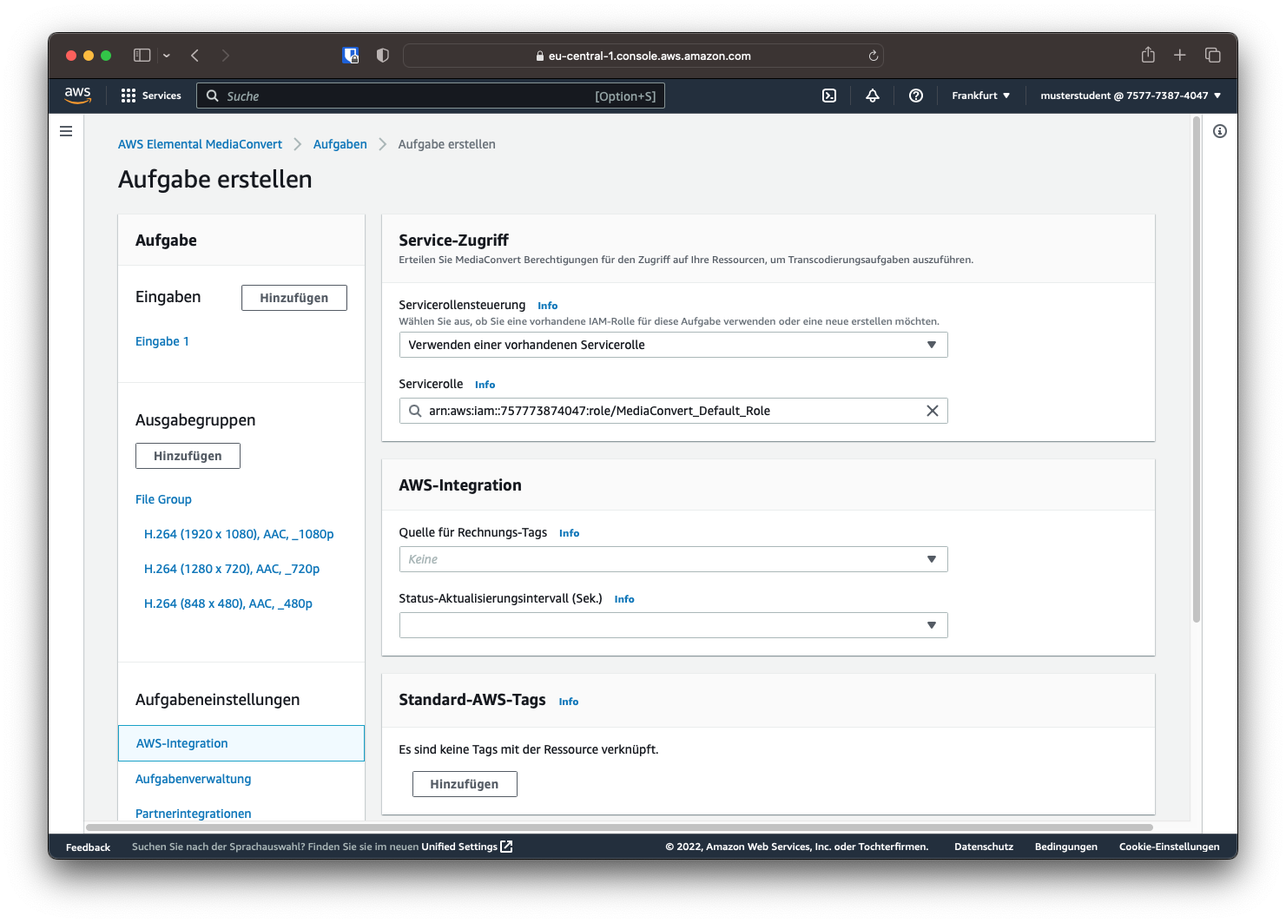
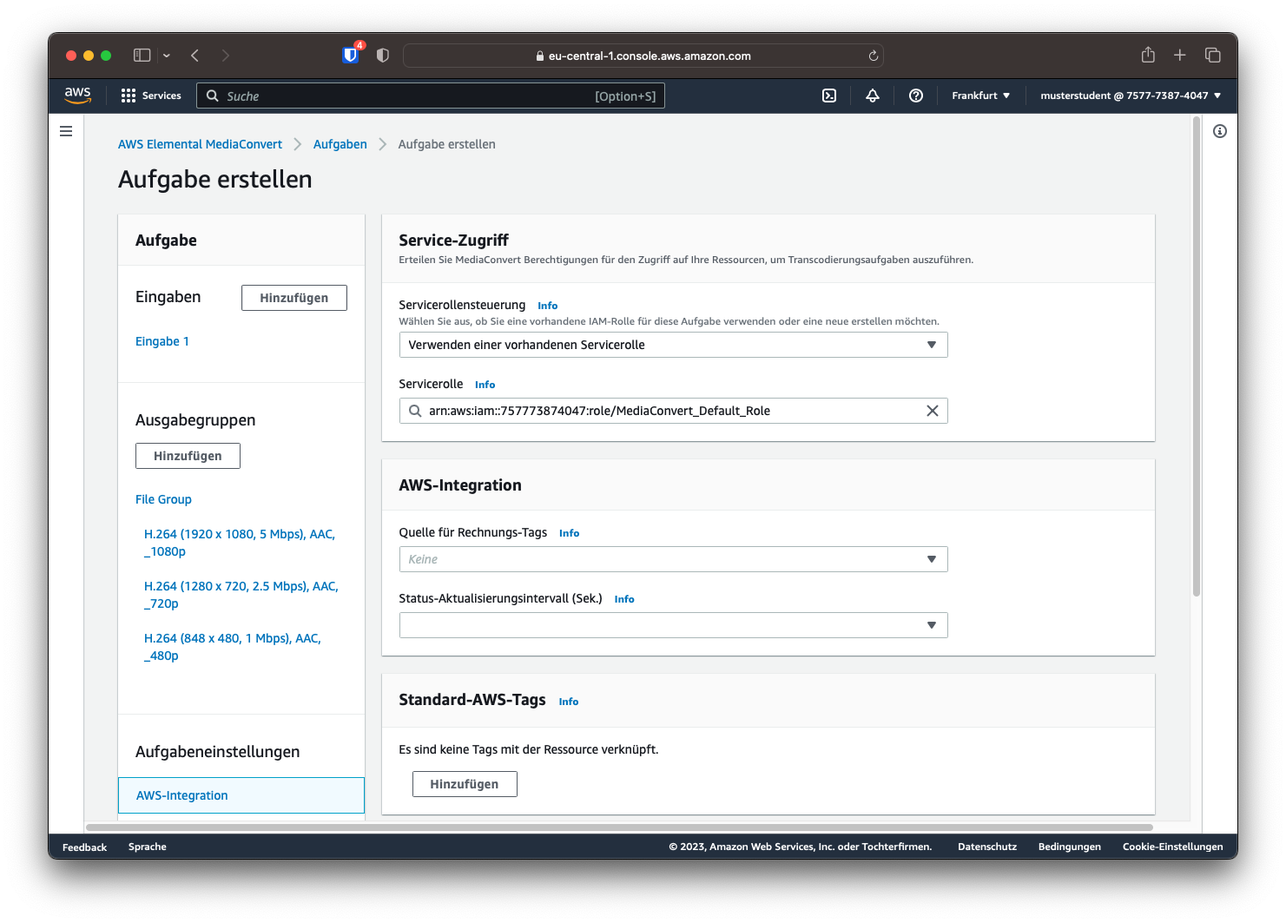
Verbesserungen Struktur und Versuch 1
Allgemeine Struktur der Einleitung und Vorbereitung verbessert, um einen besseren und übersichtlicheren Einstieg in das Thema zu geben. Ebenfalls die Art der Abgabe spezifiziert. Dies bedarf jedoch noch Anpassungen für das nächste Semester.
Versuch 1 erweitert und verbessert.

diff --git a/docs/index.md b/docs/index.md
@@ -4,50 +4,70 @@
 
 In dieser praktischen Übung zum Thema Cloud-Transcodierung soll ein grundlegendes Verständnis für cloudbasierte Transcodierung für Video-on-Demand-Systeme geschaffen werden. Außerdem sollen erste Praxiserfahrungen mit den Cloud-Anbietern AWS und Akamai vermittelt werden.
 
-## Einleitung
-
-Video-on-Demand-Systeme (VoD) sind aus dem alltäglichen Leben nicht wegzudenken - Youtube, Netflix und vielleicht sogar die ARD Mediathek. Der Aufbau eines VoD-Systems in der Cloud ist in den letzten Jahren denkbar einfach geworden. Cloud-Anbieter wie Amazon Web Services (AWS) und Akamai bieten verschiedene Werkzeuge an, um Medien zu ingestieren, zu speichern, zu konvertieren und letztendlich zu verbreiten.
-
-## Workflow
-
-Grundsätzlich folgt der Distributionsweg bei VoD-Systemen meist einem ähnlichen Ablauf. Mediendateien werden in hoher Qualität in das System eingespeist und nicht öffentlich gespeichert. Je nach Distributionsweg kann die Quelldatei in verschiedene Distributionsformate transcodiert werden, um auf verschiedenen Geräten wiedergegeben werden zu können. Die transcodierten Dateien können außerdem noch mit einem Kopierschutz versehen werden.
-
-Sind die verschiedenen Distributionspakete erstellt, können sie über ein Content-Delivery-Network (CDN) verteilt werden. Nutzer greifen dabei über eine Weboberfläche (Frontend) auf die im CDN gespeicherten Medien (Backend) zu.
-
-![Cloud Transcoder Workflow](assets/diagrams/workflow.svg#only-light){ style="width:100%" }
-![Cloud Transcoder Workflow](assets/diagrams/workflow_dark.svg#only-dark){ style="width:100%" }
-
-In der Praxis wird dieser simple Ablauf noch mit verschiedenen Steuerungs- und Monitoriung-Werkzeugen ergänzt, um Arbeitsschritte zu automatisieren oder bspw. dem zuständigen Mitarbeiter Benachrichtigungen zu senden, sobald eine Datei transcodiert wurde.
-
-## Cloud-Anbieter
-
-> The Cloud Is Just Someone Else's Computer
-
-Cloud-Anbieter sind Firmen, die Rechenleistung oder ähnliche Dienstleistungen für ihre Kunden anbieten. Der Nutzer muss keine eigene Hardware bereitstellen, sondern mietet diese für einen gewissen Zeitraum an. Bei Bedarf kann so flexibel und für einen kurzen Zeitraum mehr oder weniger Ressourcen gebucht werden.
-
-Das Angebot kann man grob in 3 Bereiche unterteilen: *"Infrastructure as a Service (IaaS)"* stellt Computing- oder Netzwerk-Infrastruktur wie Server und Router zur Verfügung. *"Platform as a Service (PaaS)"* bietet Plattformen wie Speicherplatz oder Kubernetes-Cluster an, ohne dass sich der Kunde mit dem darunterliegenden Betriebssystem befassen muss. *"Software as a Service (SaaS)"* abstrahiert weiter und stellt reine Softwarelösungen wie Transcoder oder Benachrichtigungen zur Verfügung.
-
-Einige Cloud-Anbieter sind *AWS*, *Microsoft Azure*, *Akamai* oder *Linode*.
-
-!!! info
-    Für die folgenden Versuche werden die Plattformen von **AWS** für Speicherung, Monitoring und Transcodierung sowie das Content-Delivery-Network von **Akamai** benutzt.
-
-!!! danger "Kosten"
-
-    Produkte von Cloud-Anbietern werden meist pro Zeiteinheit abgerechnet. Wenn bspw. ein erstellter Server nach Benutzung nicht wieder abgeschaltet/vernichtet wird, können hohe Kosten entstehen, die erst bei der monatlichen Abrechnung offensichtlich werden. Wenn für eine Aufgabe 100 statt 10 Instanzen gestartet werden, können die Kosten schnell in die Höhe schnellen.
-
-### Weboberfläche
-
-Cloud-Produkte lassen sich am einfachsten über eine grafische Weboberfläche einrichten und bedienen. Diese bietet die übersichtliche Bedienung, ist jedoch weniger leicht zu automatisieren. Mithilfe der Log-in-Daten können mit wenigen Klicks Ressourcen hinzugefügt oder entfernt werden. Die Weboberfläche nennt sich bei AWS *"Konsole"*.
-
-### Kommandozeile
-
-Neben der grafischen Oberfläche können Cloud-Ressourcen auch mithilfe von Kommandozeilen-Anwendungen (CLI) sowie Skripten bestellt und bedient werden. Zwar ist dies nicht so übersichtlich für Anfänger, jedoch können fortgeschrittene Nutzer schneller und automatisierter Ressourcen buchen und Workflows erstellen.
-
-## Versuche im Überblick
+### Versuche im Überblick
 
 | Nr.                                    | Beschreibung
-| -------------------------------------- | --------------------------------------------------------------- |
-| [Versuch 1](./versuch1/01-einfuehrung) | Behandelt die grundlegenden Konzepte eines **Cloud-Transcoders**|
-| [Versuch 2](./versuch2/01-einfuehrung) | Behandelt die grundlegenden Konzepte eines **CDNs**             |
-| [Versuch 3](./versuch3/01-einfuehrung) | Aufbau eines **automatisierten** VOD-Systems                    |
+| -------------------------------------- | -------------------------------------------------------- |
+| [Versuch 1](./versuch1/01-einfuehrung) | Grundlegende Konzepte eines **Cloud-Transcoders**        |
+| [Versuch 2](./versuch2/01-einfuehrung) | Grundlegende Konzepte eines **CDNs**                     |
+| [Versuch 3](./versuch3/01-einfuehrung) | Aufbau eines **automatisierten** VOD-Workflows           |
+| [Versuch 4](./versuch4/01-einfuehrung) | Transcodieren in **verschlüsselte Distributionsformate** |
+| [Versuch 5](./versuch5/01-einfuehrung) | **Kommandozeilenbefehle** und **APIs**                   |
+
+## Abgabe
+
+Bewertet wird ein schriftlicher Versuchsbericht sowie die im Laufe der Versuchsdurchführung erzeugten Dateien. Der schriftliche Bericht sollte **grob 3 Seiten pro Versuch** umfassen und neben der Protokollierung der Versuchsdurchführung die in der Versuchsanleitung gestellten Fragen beantworten. 
+
+Die Fragen sind in der Versuchsanleitung folgendermaßen gekennzeichnet:
+
+!!! question "Beispielfrage 1"
+    Beispiel-Fragestellung.
+
+### Abgabeort
+
+Die Abgabe erfolgt via ILIAS. Der Versuchsbericht soll nach dem folgenden Schema benannt sein: 
+
+`[Matrikelnummer] - [Nachname]_[Vorname] - Versuchsbericht.pdf`
+
+Außerdem sollen die abzugebenden Dateien in einer ZIP-gepackten-Datei hochgeladen werden. Pro Versuch soll in der ZIP-Datei ein eigener Ordner erstellt werden. Die ZIP-Datei soll nach folgendem Schema benannt sein: 
+
+`[Matrikelnummer] - [Nachname]_[Vorname] - Versuchsdateien.zip`
+
+Im Fazit jedes Kapitels sind die Dateien genannt, die mindestens abgegeben werden müssen. Eigene Experimente mit z.B. kreativen Kodiereinstellungen etc. sind erwünscht und können ebenfalls abgegeben werden.
+
+<u>Beispiel:</u>
+
+```
+📄 12345 - Mustermann_Max - Versuchsbericht.pdf
+📁 12345 - Mustermann_Max - Versuchsdateien.zip
+    📁 Versuch 1
+        📄 Clip1_720p.mp4
+        ...
+    📁 Versuch 2
+    📁 Versuch 3
+    📁 Versuch 4
+    📁 Versuch 5
+```
+
+!!! warning
+    Dateien, die sich nicht im Abgabeordner befinden, werden bei der Bewertung nicht berücksichtigt.
+
+### Bewertungskriterien
+
+Zur Bewertung wird sowohl der Versuchsbericht, als auch die beantworteten Fragen sowie die abgegebenen Dateien herangezogen. Neben faktischer Korrektheit sollte ebenfalls auf die Rechtschreibung und Form (z.B. Quellenangaben) geachtet werden.
+
+## Benötigte Software
+
+Für die Versuche ist nur wenig Software auf dem lokalen Rechner von Nöten, da auf AWS und Akamai über ein Webinterface zugegriffen wird. Zur Beurteilung der Dateien sind jedoch einige Programme notwendig. 
+
+Alle Programme sind sowohl für Windows und MacOS, als auch für diverse Linux-Distributionen erhältlich.
+
+### Mediaplayer
+
+Zur Wiedergabe von transcodierten Videodateien sollte ein aktueller Mediaplayer vorhanden sein. Empfohlen wird [VLC Mediaplayer](https://www.videolan.org/vlc/index.de.html) oder [mpv](https://mpv.io/).
+
+### MediaInfo
+
+Um die technischen Metadaten der Videodateien auszulesen, wird [MediaInfo](https://mediaarea.net/en/MediaInfo) benötigt.
+
+![MediaInfo Screenshot](assets/mediainfo.png)

diff --git a/docs/versuch1/03-transcoder.md b/docs/versuch1/03-transcoder.md
@@ -8,17 +8,20 @@ Vorher sollte jedoch sicher gestellt werden, dass man sich in der Region Frankfu
 
 ## Warteschlange
 
-Da auch bei MediaConvert die Aufträge von anderen IAM-Benutzern angezeigt werden, lohnt sich der Übersicht halber eine eigene Warteschlange. Der Bereich "Warteschlangen" lässt sich über die Seitenleiste aufrufen.
+Da auch bei MediaConvert die Aufträge von anderen IAM-Benutzern angezeigt werden, lohnt sich der Übersicht halber die Einordnung in Warteschlangen. Der Bereich "Warteschlangen" lässt sich über die Seitenleiste aufrufen.
 
 ![AWS Elemental MediaConvert Warteschlangen](../assets/versuch1/mediaconvert_queue.png)
 
-Hier lässt sich über die Schaltfläche "Warteschlange erstellen" eine eigene Warteschlange erstellen. Als Name soll der Nutzername verwendet werden.
-
-![MediaConvert Warteschlange erstellen](../assets/versuch1/mediaconvert_queue_create.png)
+Hier wurden bereits die maximale Anzahl von 10 Warteschlangen erstellt. Welche Warteschlange genutzt werden soll, wurde in der Mail mit den Zugangsdaten mitgeteilt.
 
 ## Transcodierauftrag erstellen
 
 Um eine Videodatei in ein anderes Format zu transcodieren muss ein Transcodierauftrag erstellt werden. Hier werden unter anderem die Transcodierparameter sowie der Ein- und Ausgabepfad festgelegt.
+
+!!! warning "Achtung!"
+    Der orangene Button "Erstellen" am unteren Ende der Seite erstellt und startet den Transcoding Job. Ist der Transcoding Job erstellt, können dessen Einstellungen nicht mehr geändert werden und es muss ein neuer Job mit den veränderten Einstellungen erstellt werden.
+
+    **Klicken Sie daher erst auf "Erstellen" wenn alle Transcodiereinstellungen festgelegt sind!**
 
 ### Eingabe
 
@@ -26,7 +29,7 @@ Zuerst muss die Quelldatei bestimmt werden. Im Feld der Eingabedatei-URL kann ma
 
 ![MediaConvert Neuer Auftrag](../assets/versuch1/mediaconvert_new_job.png)
 
-Da die Quelldateien bereits im Bucket `a--sourcefiles` abgelegt wurden, kann dieser durch den Button "Durchsuchen" ausgewählt werden. Sobald man das Suchfeld "Datei" auswählt, werden die verfügbaren Dateien angezeigt. Hier muss die Composition Playlist (CPL) ausgewählt werden, damit MediaConvert die Quelldaten als MXF einlesen kann.
+Da die Quelldateien bereits im Bucket `a--sourcefiles` abgelegt wurden, kann dieser durch den Button "Durchsuchen" ausgewählt werden. Sobald man das Suchfeld "Datei" auswählt, werden die verfügbaren Dateien angezeigt. Hier muss die Composition Playlist (CPL) ausgewählt werden, damit MediaConvert die Quelldaten als MXF einlesen kann. Für diesen ersten Versuch soll die CPL-Datei mit dem Präfix `QUELLDATEI-VERSUCH1/` gewählt werden.
 
 ![MediaConvert CPL](../assets/versuch1/mediaconvert_cpl.png)
 
@@ -36,15 +39,15 @@ Falls die Quelldatei vom Transcoder anders als in den Metadaten vermerkt interpr
 
 Im Bereich *Ausgabegruppen* kann ein oder mehrere Ausgabeformate festgelegt werden. Für diesen Versuch soll die Option *Dateigruppe* gewählt werden, da einzelne Ausgabedateien erzeugt werden sollen.
 
-Im Reiter *"File Group"* lässt sich nun unter anderem eine Zieladresse auswählen. Hier wählen wir den im letzten Kapitel angelegten S3-Bucket.
+Im Reiter *File Group* lässt sich nun unter anderem eine Zieladresse auswählen. Hier wählen wir den im letzten Kapitel angelegten S3-Ordner im eigenen S3-Bucket.
 
 Für diesen Versuch soll die Quelldatei in folgende Formate transcodiert werden:
 
-| Auflösung | maximale Video Bitrate | Audio Bitrate | Namensmodifikator |
-| --------- | ---------------------- | ------------- | ----------------- |
-| 1920x1080 | 8 Mbit/s               | 192 Kbit/s    | `_1080p`          |
-| 1280x720  | 3 Mbit/s               | 128 Kbit/s    | `_720p`           |
-| 848x480   | 1,5 Mbit/s             | 96 Kbit/s     | `_480p`           |
+| Auflösung | Video Bitrate | Audio Bitrate | Namensmodifikator |
+| --------- | ------------- | ------------- | ----------------- |
+| 1920x1080 | 5 Mbit/s      | 192 Kbit/s    | `_1080p`          |
+| 1280x720  | 2,5 Mbit/s    | 128 Kbit/s    | `_720p`           |
+| 848x480   | 1 Mbit/s      | 96 Kbit/s     | `_480p`           |
 
 Dafür können über den Button "Ausgabe hinzufügen" mehrere Ausgaben erstellt werden und Namensmodifikatoren vergeben werden. Diese Modifikatoren werden an den Dateinamen der transcodierten Dateien angehängt.
 
@@ -52,14 +55,22 @@ Dafür können über den Button "Ausgabe hinzufügen" mehrere Ausgaben erstellt 
 
 #### Videoformat
 
-Durch das Klicken auf den Namen der jeweiligen Ausgabe (z.B. *"Output 1"*), werden die Codierungseinstellungen der jeweiligen Ausgabe geöffnet. Hier kann nun die gewünschte Auflösung, sowie der gewünschte Modus der Bitrate und die dazugehörigen Parameter eingestellt werden. Für alle Ausgaben soll eine qualitätsdefinierte variable Bitrate (QVBR) verwendet werden. Hierbei wird die Bitrate der Komplexität der Szene zum aktuellen Zeitpunkt angepasst. Können also z.B. einheitliche Flächen gut komprimiert werden, wird die Bitrate bei gleichbleibender Qualität gesenkt. Die maximale Bitrate kann ebenso definiert werden, wie die gewünschte Qualitätsstufe.
+Durch das Klicken auf den Namen der jeweiligen Ausgabe (z.B. *"Output 1"*), werden die Codierungseinstellungen der jeweiligen Ausgabe geöffnet. Hier kann nun die gewünschte Auflösung, sowie der gewünschte Modus der Bitrate und die dazugehörigen Parameter eingestellt werden. Für alle Ausgaben soll eine feste Bitrate (CBR) verwendet werden.
 
-Die Parameter Auflösung und maximale Bitrate können aus der vorangegangenen Tabelle entnommen werden. Die Qualitätsstufe soll auf 8 gestellt werden. Außerdem soll die Qualitätsoptimierungsebene auf "HQ mit einem Durchgang" gestellt werden.
+Die Parameter Auflösung und Bitrate können aus der vorangegangenen Tabelle entnommen werden. Die Qualitätsoptimierungsebene soll auf "HQ mit einem Durchgang" gestellt werden.
 
 !!! warning
-    Die Maximale Bitrate wird bei AWS in Bit/s und nicht in **M**bit/s angegeben. Eine Umrechnung ist notwendig.
+    Die Bitrate wird bei AWS in Bit/s und nicht in **M**bit/s angegeben. Eine Umrechnung ist notwendig.
 
 ![MediaConvert Videosettings](../assets/versuch1/mediaconvert_video.png)
+
+#### Timecode
+
+Bei den erstellten Dateien soll der Timecode als Wasserzeichen in das Video "eingbrannt" also fest in das Video codiert werden. Dafür muss in den Videocodier-Einstellungen ganz unten der Bereich "Vorverarbeitung" ausgeklappt und die Option "Timecode einbrennen" aktiviert werden. Die Bemerkung "Pro" neben der Option signalisiert, dass sich durch das Aktivieren der Option die Transcodiergebühren erhöhen.
+
+Als Präfix soll der eigene HDS-Nutzername mit einem Bindestrich gewählt werden, sodass `musterstudent - 00:00:00:00` im oberen Bereich des Bildes zu sehen ist. Als Schriftgröße soll "Small" gewählt werden. Die Position soll nicht verändert werden. 
+
+![MediaConvert Timecode](../assets/versuch1/mediaconvert_timecode.png)
 
 #### Audioformat
 

diff --git a/docs/einleitung.md b/docs/einleitung.md
@@ -1,0 +1,48 @@
+# Einleitung
+
+Video-on-Demand-Systeme (VoD) sind aus dem alltäglichen Leben nicht wegzudenken - Youtube, Netflix und vielleicht sogar die ARD Mediathek. Der Aufbau eines VoD-Systems in der Cloud ist in den letzten Jahren denkbar einfach geworden. Cloud-Anbieter wie Amazon Web Services (AWS) und Akamai bieten verschiedene Werkzeuge an, um Medien zu ingestieren, zu speichern, zu konvertieren und letztendlich zu verbreiten.
+
+## Workflow
+
+Grundsätzlich folgt der Distributionsweg bei VoD-Systemen meist einem ähnlichen Ablauf. Mediendateien werden in hoher Qualität in das System eingespeist und nicht öffentlich gespeichert. Je nach Distributionsweg kann die Quelldatei in verschiedene Distributionsformate transcodiert werden, um auf verschiedenen Geräten wiedergegeben werden zu können. Die transcodierten Dateien können außerdem mit einem Kopierschutz versehen werden.
+
+Sind die verschiedenen Distributionspakete erstellt, können sie über ein Content-Delivery-Network (CDN) verteilt werden. Nutzer greifen dabei über eine Weboberfläche (Frontend) auf die im CDN gespeicherten Medien (Backend) zu.
+
+![Cloud Transcoder Workflow](assets/diagrams/workflow.svg#only-light){ style="width:100%" }
+![Cloud Transcoder Workflow](assets/diagrams/workflow_dark.svg#only-dark){ style="width:100%" }
+
+In der Praxis wird dieser simple Ablauf noch mit verschiedenen Steuerungs- und Monitoriung-Werkzeugen ergänzt, um Arbeitsschritte zu automatisieren oder beispielsweise dem zuständigen Mitarbeiter Benachrichtigungen zu senden, sobald eine Datei transcodiert wurde.
+
+## Cloud-Anbieter
+
+> "The Cloud Is Just Someone Else's Computer"
+
+Cloud-Anbieter sind Firmen, die Rechenleistung oder ähnliche Dienstleistungen für ihre Kunden anbieten. Der Nutzer muss keine eigene Hardware bereitstellen, sondern mietet diese für einen gewissen Zeitraum an. Bei Bedarf können so flexibel und für einen kurzen Zeitraum mehr oder weniger Ressourcen gebucht werden.
+
+Das Angebot kann man grob in 3 Bereiche unterteilen: 
+
+- *Infrastructure as a Service (IaaS)* stellt Computing- oder Netzwerk-Infrastruktur wie Server und Router zur Verfügung. 
+
+- *Platform as a Service (PaaS)* bietet Plattformen wie Speicherplatz oder Kubernetes-Cluster an, ohne dass sich der Kunde mit dem darunterliegenden Betriebssystem befassen muss. 
+
+- *Software as a Service (SaaS)* abstrahiert weiter und stellt reine Softwarelösungen wie Transcoder oder Benachrichtigungen zur Verfügung[^1]. 
+
+Einige Cloud-Anbieter sind *AWS*, *Microsoft Azure*, *Akamai* oder *Linode*.
+
+!!! info
+    Für die folgenden Versuche werden die Plattformen von **AWS** für Speicherung, Monitoring und Transcodierung sowie das Content-Delivery-Network von **Akamai** benutzt.
+
+!!! danger "Kosten"
+
+    Produkte von Cloud-Anbietern werden meist pro Zeiteinheit abgerechnet. Wenn beispielsweise ein erstellter Server nach Benutzung nicht wieder abgeschaltet/gelöscht wird, können hohe Kosten entstehen, die erst bei der monatlichen Abrechnung offensichtlich werden. Wenn für ein automatisiertes Skripten 100 statt 10 Instanzen startet, können die Kosten ebenfalls schnell in die Höhe schießen.
+
+### Weboberfläche
+
+Cloud-Produkte lassen sich am einfachsten über eine grafische Weboberfläche einrichten und bedienen. Diese bietet die übersichtliche Bedienung, ist jedoch weniger leicht zu automatisieren. Mithilfe der Log-in-Daten können mit wenigen Klicks Ressourcen hinzugefügt oder entfernt werden. Die Weboberfläche nennt sich bei AWS *"Konsole"*.
+
+### Kommandozeile
+
+Neben der grafischen Oberfläche können Cloud-Ressourcen auch mithilfe von Kommandozeilen-Anwendungen (CLI) sowie Skripten bestellt und bedient werden. Zwar ist dies nicht so übersichtlich für Anfänger, jedoch können fortgeschrittene Nutzer schneller und automatisierter Ressourcen buchen und Workflows erstellen.
+
+
+[^1]: Der Begriff dient außerdem zur Beschreibung von Geschäftsmodellen, die Software per Abonnement zur Verfügung stellen. Diese Software muss nicht zwingend in der Cloud betrieben werden, hat aber oft Verknüpfungen zu beispielsweise Cloud-Speicher Diensten (z.B. Adobe Creative Cloud).

diff --git a/docs/versuch1/02-S3.md b/docs/versuch1/02-S3.md
@@ -3,7 +3,7 @@
 Zuerst muss der Speicherort transcodierten Dateien erstellt werden. Dafür wird der S3 Objektspeicher verwendet. Auf der AWS Konsole lässt sich S3 oben links unter `Services -> Speicherung -> S3` auswählen oder über die Suchleiste finden.
 
 !!! question "Frage 2"
-    Welche Redundanzen und welche Zuverlässigkeit bietet S3-Objektspeicher laut Amazon?
+    Welche Redundanzen und welche Zuverlässigkeit bietet S3-Objektspeicher laut Amazon? Was ist der Unterschied zwischen der Verfügbarkeit des S3-Services und der Verfügbarkeit eines einzelnen Objektes über ein Jahr?
 
 Über die Seitenleiste lässt sich die Option `Buckets` auswählen. Hier werden die von diesem Konto erstellten Buckets, also Speicherorte, angezeigt. Dies schließt auch jene ein, die von einem anderen IAM-Benutzer mit der gleichen Konto-ID erstellt wurden. Daher werden auch die Buckets der anderen Studierenden gelistet, obwohl die Benutzer der Studierenden nur Zugriff auf den eigenen Bucket haben.
 
@@ -11,7 +11,7 @@ Zuerst muss der Speicherort transcodierten Dateien erstellt werden. Dafür wird 
 
 ## Bucket erstellen
 
-Mithilfe des Buttons *"Bucket erstellen"* kann ein neuer Bucket erstellt werden. Für den ersten Versuch benennen wir den Bucket nach dem `nutzername + "-versuch1"`. Als AWS-Region soll Frankfurt (`eu-central-1`) gewählt werden. Alle anderen Einstellungen können auf ihren Standardeinstellungen belassen werden. Mit dem Button *"Bucket erstellen"* wird der angegeben Bucket erstellt.
+Mithilfe des Buttons *"Bucket erstellen"* kann ein neuer Bucket erstellt werden. Der Bucket soll nach dem Schema `mvs-[HDS-Nutzername]` benannt werden, also beispielsweise `mvs-musterstudent`. Als AWS-Region soll Frankfurt (`eu-central-1`) gewählt werden. Alle anderen Einstellungen können auf ihren Standardeinstellungen belassen werden. Mit dem Button *"Bucket erstellen"* wird der angegeben Bucket erstellt.
 
 !!! info
     Der Name des Buckets muss weltweit eindeutig gewählt sein und darf keine Leerzeichen, Großbuchstaben oder Unterstriche enthalten.
@@ -20,7 +20,18 @@ Mithilfe des Buttons *"Bucket erstellen"* kann ein neuer Bucket erstellt werden.
 
 Der neu erstellte Bucket solle nun in der Auflistung aller Buckets angezeigt werden.
 
-![S3 Bucket Erstellt](../assets/versuch1/s3_erstellt.png)
+## Unterordner erstellen
+
+!!! info
+    Das Prinzip der Objektspeicher sieht keine klassischen Ordner, wie sie in einem hirarchischen Dateisystem zu finden sind, vor. Um trotzdem Struktur in einen Bucket zu bringen kann über Präfixe der Form `foldername/file.extension` eine hirarchische Dateistruktur simuliert werden. In der AWS-Konsole werden diese Präfixe, getrennt mit einem `/` wie ein hirarchisches Dateisystem angezeigt. Der Einfachheit halber werden diese Präfixe im Folgenden als *Ordner* bezeichnet.
+
+Für die transcodierten Dateien soll ein Unterordner im Bucket erstellt werden. Dazu muss der Bucket durch das Klicken auf den Bucketnamen in der Übersicht aller Buckets geöffnet werden. Hier kann nun über die Schaltfläche *"Ordner erstellen"* ein Ordner im Bucket erstellt werden.
+
+![S3 Ordner Erstellung](../assets/versuch1/s3_bucket.png)
+
+Als Name soll `Versuch1` gewählt werden. Ist der Ordner erstellt, wird dieser in der Übersicht des Buckets angezeigt.
+
+![S3 Ordner Erstellung](../assets/versuch1/s3_ordner.png)
 
 ## Quelldateien
 

diff --git a/docs/versuch1/01-einfuehrung.md b/docs/versuch1/01-einfuehrung.md
@@ -11,7 +11,7 @@ Zuerst werden für diesen Versuch die Grundbegriffe geklärt und das Konzept erl
 Als Objektspeicher wird für diesen Versuch *AWS S3* verwendet. Einzelne Objekte können bis zu 5 Terabyte groß sein und entweder über die Web GUI oder über verschiedene APIs hochgeladen werden. Hier werden sowohl die Quelldateien für den Versuch als auch die transcodierten Dateien gespeichert.
 
 !!! warning "Kosten"
-    Gespeicherte Dateien verursachen sowohl pro Zeiteinheit Speicherkosten, als auch pro übertragene Gigabyte Downloadkosten. Bei kleinen Datenmengen, wie in diesem Versuch, belaufen sich die Kosten auf unter 1$ USD. Bei großen Projekten und Datenmengen können die Speicherkosten jedoch deutlich größer sein.
+    Gespeicherte Dateien verursachen sowohl pro Zeiteinheit Speicherkosten, als auch pro übertragene Gigabyte Downloadkosten. Bei kleinen Datenmengen, wie in diesen Versuchen, belaufen sich die Kosten auf unter 1$ USD. Bei großen Projekten und Datenmengen können die Speicherkosten jedoch deutlich größer sein.
 
 ### Transcodierer (*AWS Elemental MediaConvert*)
 
@@ -47,6 +47,6 @@ Das Dashboard ist der Startpunkt der AWS-Konsole und bietet die Möglichkeit ver
 Oben rechts kann die Region, also der Standort des verwendeten Rechenzentrums, verändert werden. Für die Versuche ist die nächstgelegende Region, in diesem Fall *Frankfurt (`eu-central-1`)*, die sinnvollste.
 
 !!! question "Frage 1"
-    Eine Region beschreibt kein einzelnes Rechenzentrum. Recherchieren und erläutern Sie die Begriffe "Region" und "Availability Zone".
+    Eine Region beschreibt kein einzelnes Rechenzentrum. Recherchieren und erläutern Sie die Begriffe "Region" und "Availability Zone". Wie sind Regionen und Availability Zones miteinander verbunden?
 
 ![AWS Region Setting](../assets/versuch1/aws_region.png)

diff --git a/docs/versuch1/04-download.md b/docs/versuch1/04-download.md
@@ -4,7 +4,7 @@ Ist die Quelldatei fertig transcodiert, werden die resultierenden Dateien im eig
 
 ## Inspektion
 
-Zur Kontrolle, ob alle Codierungsparameter berücksichtigt wurden, lässt sich die Datei in MediaInfo öffnen. MediaInfo zeigt detailliert Eigenschaften und Metadaten für vielerlei verschiedene Medien an und kann auch zur Überprüfung der Datei genutzt werden. 
+Zur Kontrolle, ob alle Codierungsparameter berücksichtigt wurden, lässt sich die Datei in MediaInfo öffnen. MediaInfo zeigt detailliert Eigenschaften und Metadaten für vielerlei verschiedene Medien an. 
 
 Schon die Übersicht zeigt die Videodatenrate und die Audiodatenrate. Ebenso werden die verwendeten Audio- und Video-Codecs angezeigt. In anderen Ansichten, wie die "Tree"-Ansicht sind auch tiefer gehende Eigenschaften wie Farbraum und Chroma-Subsampling aufgelistet.
 
@@ -21,7 +21,6 @@ Schon die Übersicht zeigt die Videodatenrate und die Audiodatenrate. Ebenso wer
     | Auflösung (b x h)    |          |         |         |
     | Chroma-Subsampling   |          |         |         |
     | Farbtiefe            |          |         |         |
-    | Full Range / Limited |          |         |         |
     | Primärvalenzen       |          |         |         |
     | Audio-Codec          |          |         |         |
     | Audio-Bitrate        |          |         |         |

diff --git a/docs/versuch1/05-fazit.md b/docs/versuch1/05-fazit.md
@@ -8,3 +8,16 @@ Nach diesem Versuch sollten folgende Arbeitsabläufe klar sein:
 - Erstellung eines Transcodier-Auftrags in AWS Elemental MediaConvert
 - Download einer Datei von AWS S3
 - Überprüfen einer Datei auf dessen Audio- und Video-Parameter
+
+## Abgabe
+
+In der Abgabe sollten die 3 transcodierten Dateien, die im Laufe des Versuchs erzeugt wurden, enthalten sein. Eigene Experimente mit kreativen Transcodier-Einstellungen sind gern gesehen und können ebenfalls abgegeben werden.
+
+```
+📁 Versuch 1
+    📄 Clip1_1080p.mp4
+    📄 Clip1_720p.mp4
+    📄 Clip1_480p.mp4
+    📁 Experimente
+        ...
+```

diff --git a/README.md b/README.md
@@ -2,4 +2,4 @@
 
 Dieses Repository beinhaltet die Versuchsanleitung sowie die zugehörigen Dateien und Scripte für einen Video-On-Demand Versuchsaufbau. Die Versuchsanleitung ist auch [hier](https://wruppelx.github.io/mvs-aws-exercise) zu finden.
 
-Das Repository entstand im Zuge einer Projektarbeit im Studiengang *Advanced Media Technology (M.Eng.)* an der Hochschule Rhein-Main.
+Das Repository entstand im Zuge der Projektarbeiten im Studiengang *Advanced Media Technology (M.Eng.)* an der Hochschule Rhein-Main.
